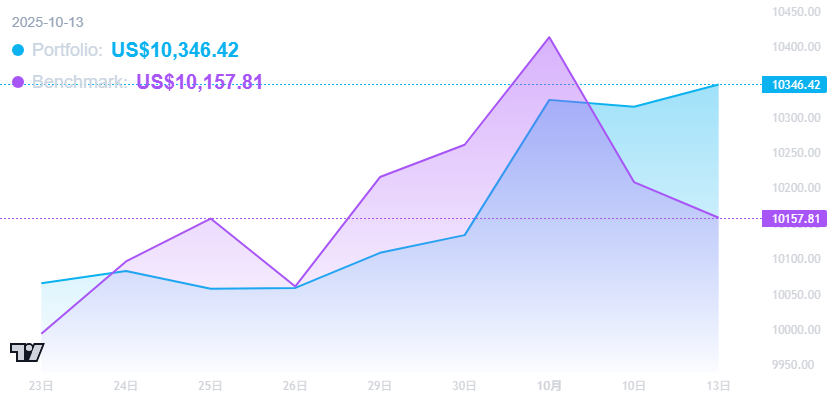
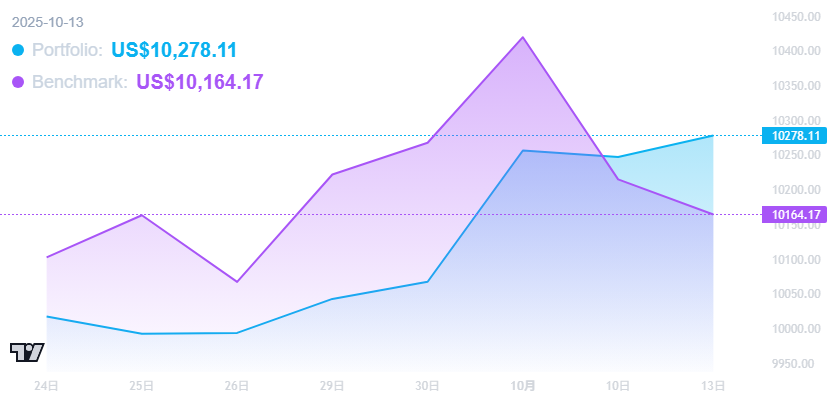
Updates portfolio analysis for new start date and data
Shifts the analysis start date to 2025-09-23 and refreshes all performance metrics, chart data, and KPI values to reflect the updated time window. Ensures displayed results and visuals align with the new reporting period, improving accuracy and consistency of the portfolio dashboard.

diff --git a/pages/index.html b/pages/index.html
@@ -10,16 +10,16 @@
         <body class="bg-slate-900 text-slate-200 font-sans">
             <main class="min-h-screen flex items-center justify-center p-4">
                 <div class="w-full max-w-4xl rounded-2xl bg-slate-800/50 p-6 md:p-8 shadow-2xl ring-1 ring-white/10 backdrop-blur-xl">
-                    <header class="mb-8"><h1 class="text-4xl font-bold text-transparent bg-clip-text bg-gradient-to-r from-cyan-400 to-purple-500">Portfolio Dashboard</h1><p class="text-slate-400 text-sm mt-2">Updated: 2025-10-14 10:13:02 UTC</p></header>
+                    <header class="mb-8"><h1 class="text-4xl font-bold text-transparent bg-clip-text bg-gradient-to-r from-cyan-400 to-purple-500">Portfolio Dashboard</h1><p class="text-slate-400 text-sm mt-2">Updated: 2025-10-14 10:21:11 UTC</p></header>
                     <section><h2 class="text-xl font-semibold mb-4 text-slate-300">Performance Chart (Initial: 10,000 USD)</h2><div id="chart-container" class="h-[400px]"></div></section>
                     <section class="mt-8"><h2 class="text-xl font-semibold mb-4 text-slate-300">Key Performance Indicators</h2><div class="overflow-x-auto"><table class="w-full text-sm text-left"><thead class="border-b border-slate-300/20 text-slate-400"><tr><th class="py-3 px-4 font-medium">Metric</th><th class="py-3 px-4 font-medium">Portfolio</th><th class="py-3 px-4 font-medium">Benchmark (SH000300)</th></tr></thead>
                         <tbody>
-                            <tr class="border-b border-slate-500/20"><td class="py-3 px-4 font-bold">Total Return</td><td class="py-3 px-4 font-mono text-green-400">3.46%</td><td class="py-3 px-4 font-mono text-green-400">1.58%</td></tr>
-                            <tr class="border-b border-slate-500/20"><td class="py-3 px-4 font-bold">Annualized Return</td><td class="py-3 px-4 font-mono text-green-400">159.49%</td><td class="py-3 px-4 font-mono text-green-400">55.02%</td></tr>
-                            <tr class="border-b border-slate-500/20"><td class="py-3 px-4 font-bold">Annualized Volatility</td><td class="py-3 px-4 font-mono">10.01%</td><td class="py-3 px-4 font-mono">18.53%</td></tr>
+                            <tr class="border-b border-slate-500/20"><td class="py-3 px-4 font-bold">Total Return</td><td class="py-3 px-4 font-mono text-green-400">2.78%</td><td class="py-3 px-4 font-mono text-green-400">1.64%</td></tr>
+                            <tr class="border-b border-slate-500/20"><td class="py-3 px-4 font-bold">Annualized Return</td><td class="py-3 px-4 font-mono text-green-400">137.29%</td><td class="py-3 px-4 font-mono text-green-400">67.02%</td></tr>
+                            <tr class="border-b border-slate-500/20"><td class="py-3 px-4 font-bold">Annualized Volatility</td><td class="py-3 px-4 font-mono">10.52%</td><td class="py-3 px-4 font-mono">19.74%</td></tr>
                             <tr class="border-b border-slate-500/20"><td class="py-3 px-4 font-bold">Max Drawdown</td><td class="py-3 px-4 font-mono text-red-400">-0.25%</td><td class="py-3 px-4 font-mono text-red-400">-2.45%</td></tr>
-                            <tr class="border-b border-slate-500/20"><td class="py-3 px-4 font-bold">Sharpe Ratio</td><td class="py-3 px-4 font-mono text-green-400">9.39</td><td class="py-3 px-4 font-mono text-green-400">2.34</td></tr>
-                            <tr><td class="py-3 px-4 font-bold">Sortino Ratio</td><td class="py-3 px-4 font-mono text-green-400">64.18</td><td class="py-3 px-4 font-mono text-green-400">3.65</td></tr>
+                            <tr class="border-b border-slate-500/20"><td class="py-3 px-4 font-bold">Sharpe Ratio</td><td class="py-3 px-4 font-mono text-green-400">8.09</td><td class="py-3 px-4 font-mono text-green-400">2.59</td></tr>
+                            <tr><td class="py-3 px-4 font-bold">Sortino Ratio</td><td class="py-3 px-4 font-mono text-green-400">55.15</td><td class="py-3 px-4 font-mono text-green-400">4.04</td></tr>
                         </tbody></table></div></section>
                 </div>
             </main>
@@ -34,7 +34,7 @@
                     crosshair: { horzLine: { visible: false, labelVisible: false } } 
                 });
 
-             
+                // --- 最终的、经过验证的、绝对正确的修正点 ---
                 const portfolioSeries = chart.addSeries(LightweightCharts.AreaSeries, {
                     topColor: 'rgba(10, 178, 240, 0.5)', bottomColor: 'rgba(10, 178, 240, 0.01)',
                     lineColor: '#0ab2f0', lineWidth: 2, crossHairMarkerVisible: false
@@ -44,8 +44,8 @@
                     lineColor: '#a855f7', lineWidth: 2, crossHairMarkerVisible: false
                 });
                 
-                portfolioSeries.setData([{'time': '2025-09-23', 'value': 10065.37}, {'time': '2025-09-24', 'value': 10082.51}, {'time': '2025-09-25', 'value': 10057.39}, {'time': '2025-09-26', 'value': 10058.67}, {'time': '2025-09-29', 'value': 10108.25}, {'time': '2025-09-30', 'value': 10133.29}, {'time': '2025-10-09', 'value': 10324.56}, {'time': '2025-10-10', 'value': 10314.75}, {'time': '2025-10-13', 'value': 10346.42}]);
-                benchmarkSeries.setData([{'time': '2025-09-23', 'value': 9993.74}, {'time': '2025-09-24', 'value': 10096.1}, {'time': '2025-09-25', 'value': 10156.72}, {'time': '2025-09-26', 'value': 10060.68}, {'time': '2025-09-29', 'value': 10215.46}, {'time': '2025-09-30', 'value': 10261.1}, {'time': '2025-10-09', 'value': 10413.2}, {'time': '2025-10-10', 'value': 10208.34}, {'time': '2025-10-13', 'value': 10157.81}]);
+                portfolioSeries.setData([{'time': '2025-09-24', 'value': 10017.03}, {'time': '2025-09-25', 'value': 9992.18}, {'time': '2025-09-26', 'value': 9993.45}, {'time': '2025-09-29', 'value': 10042.48}, {'time': '2025-09-30', 'value': 10067.16}, {'time': '2025-10-09', 'value': 10256.44}, {'time': '2025-10-10', 'value': 10246.98}, {'time': '2025-10-13', 'value': 10278.11}]);
+                benchmarkSeries.setData([{'time': '2025-09-24', 'value': 10102.42}, {'time': '2025-09-25', 'value': 10163.08}, {'time': '2025-09-26', 'value': 10066.97}, {'time': '2025-09-29', 'value': 10221.86}, {'time': '2025-09-30', 'value': 10267.53}, {'time': '2025-10-09', 'value': 10419.72}, {'time': '2025-10-10', 'value': 10214.74}, {'time': '2025-10-13', 'value': 10164.17}]);
 
                 const legend = document.createElement('div');
                 legend.style = `position: absolute; left: 12px; top: 12px; z-index: 10; font-family: sans-serif;`;
@@ -64,7 +64,7 @@
                         bValue = bData ? formatPrice(bData.value) : 'N/A';
                         date = param.time;
                     } else {
-                        const portfolioData = [{'time': '2025-09-23', 'value': 10065.37}, {'time': '2025-09-24', 'value': 10082.51}, {'time': '2025-09-25', 'value': 10057.39}, {'time': '2025-09-26', 'value': 10058.67}, {'time': '2025-09-29', 'value': 10108.25}, {'time': '2025-09-30', 'value': 10133.29}, {'time': '2025-10-09', 'value': 10324.56}, {'time': '2025-10-10', 'value': 10314.75}, {'time': '2025-10-13', 'value': 10346.42}]; const benchmarkData = [{'time': '2025-09-23', 'value': 9993.74}, {'time': '2025-09-24', 'value': 10096.1}, {'time': '2025-09-25', 'value': 10156.72}, {'time': '2025-09-26', 'value': 10060.68}, {'time': '2025-09-29', 'value': 10215.46}, {'time': '2025-09-30', 'value': 10261.1}, {'time': '2025-10-09', 'value': 10413.2}, {'time': '2025-10-10', 'value': 10208.34}, {'time': '2025-10-13', 'value': 10157.81}];
+                        const portfolioData = [{'time': '2025-09-24', 'value': 10017.03}, {'time': '2025-09-25', 'value': 9992.18}, {'time': '2025-09-26', 'value': 9993.45}, {'time': '2025-09-29', 'value': 10042.48}, {'time': '2025-09-30', 'value': 10067.16}, {'time': '2025-10-09', 'value': 10256.44}, {'time': '2025-10-10', 'value': 10246.98}, {'time': '2025-10-13', 'value': 10278.11}]; const benchmarkData = [{'time': '2025-09-24', 'value': 10102.42}, {'time': '2025-09-25', 'value': 10163.08}, {'time': '2025-09-26', 'value': 10066.97}, {'time': '2025-09-29', 'value': 10221.86}, {'time': '2025-09-30', 'value': 10267.53}, {'time': '2025-10-09', 'value': 10419.72}, {'time': '2025-10-10', 'value': 10214.74}, {'time': '2025-10-13', 'value': 10164.17}];
                         if (portfolioData.length > 0) {
                            const lastPortfolioBar = portfolioData[portfolioData.length - 1];
                            const lastBenchmarkBar = benchmarkData[benchmarkData.length - 1];

diff --git a/generate_report.py b/generate_report.py
@@ -15,7 +15,7 @@ TICKERS = ['513110.SHH', '518660.SHH', '159649.SHZ', '515450.SHH']
 BENCHMARK_TICKER = '000300.SHH'
 WEIGHTS = [0.25, 0.25, 0.25, 0.25]
 INITIAL_CAPITAL = 10000
-START_DATE = "2025-09-22" 
+START_DATE = "2025-09-23" 
 RISK_FREE_RATE = 0.02
 OUTPUT_PNG_PATH = "./pages/portfolio_chart.png" # 定义输出PNG的文件名
 OUTPUT_HTML_PATH = "./pages/index.html" # 定义输出HTML的文件名
